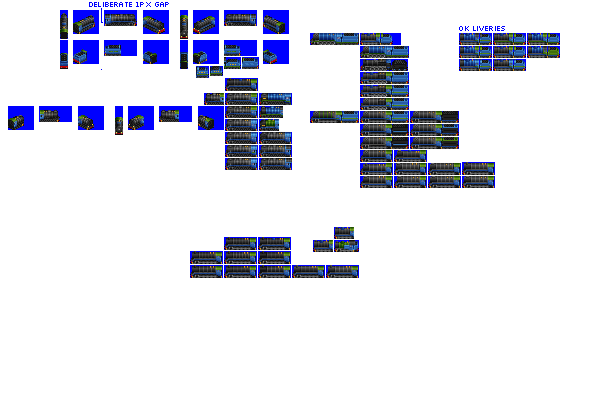
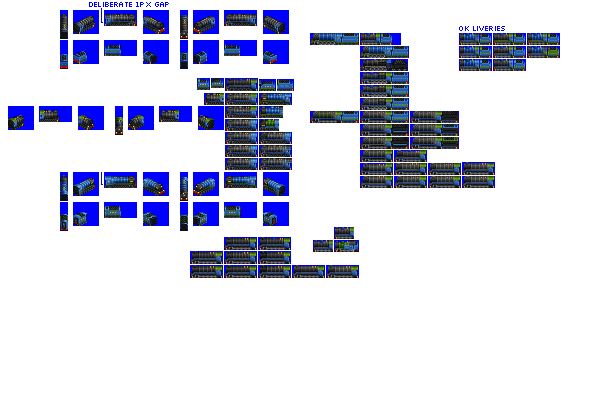
Change: tweaks to Lemon sprites complete

diff --git a/src/vehicles/lemon.py b/src/vehicles/lemon.py
@@ -10,7 +10,7 @@ def main(roster_id):
                             power=2400,
                             tractive_effort_coefficient=0.29,
                             gen=3,
-                            sprites_complete=False)
+                            sprites_complete=True)
 
     consist.add_unit(type=SteamEngineUnit,
                      weight=115,
